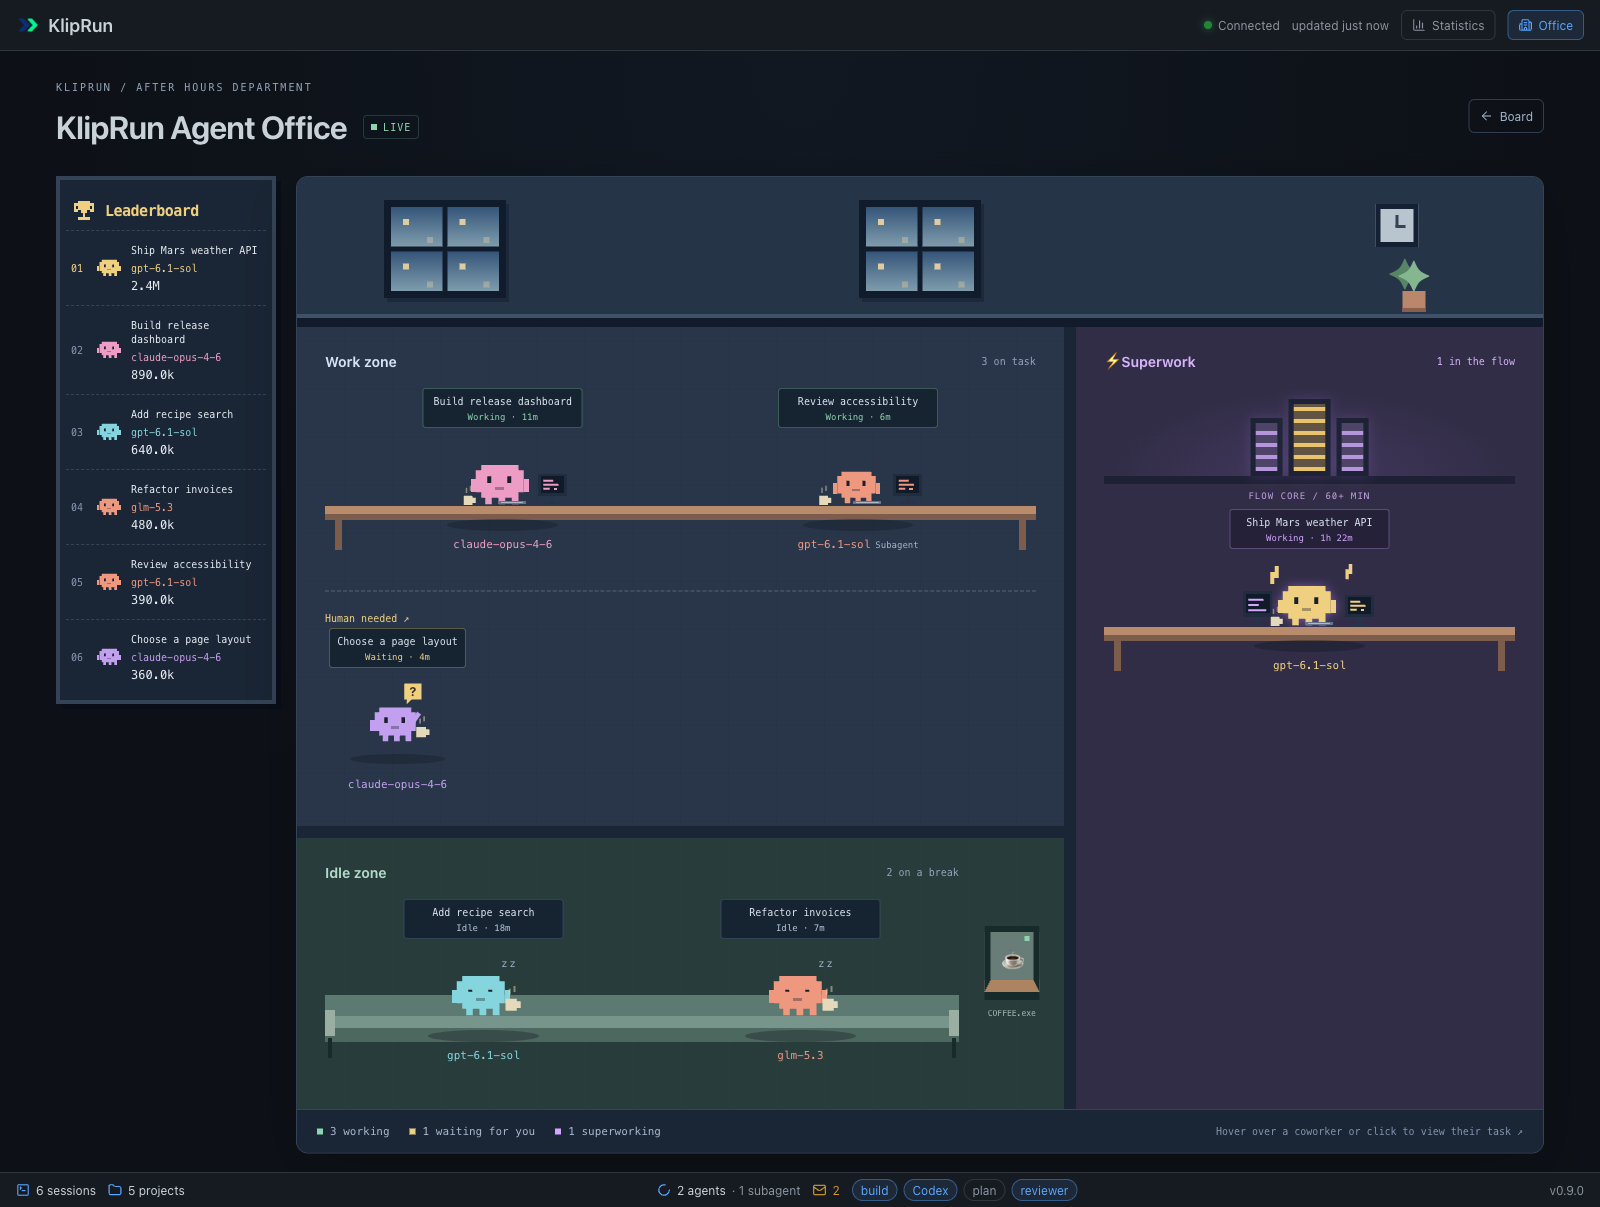
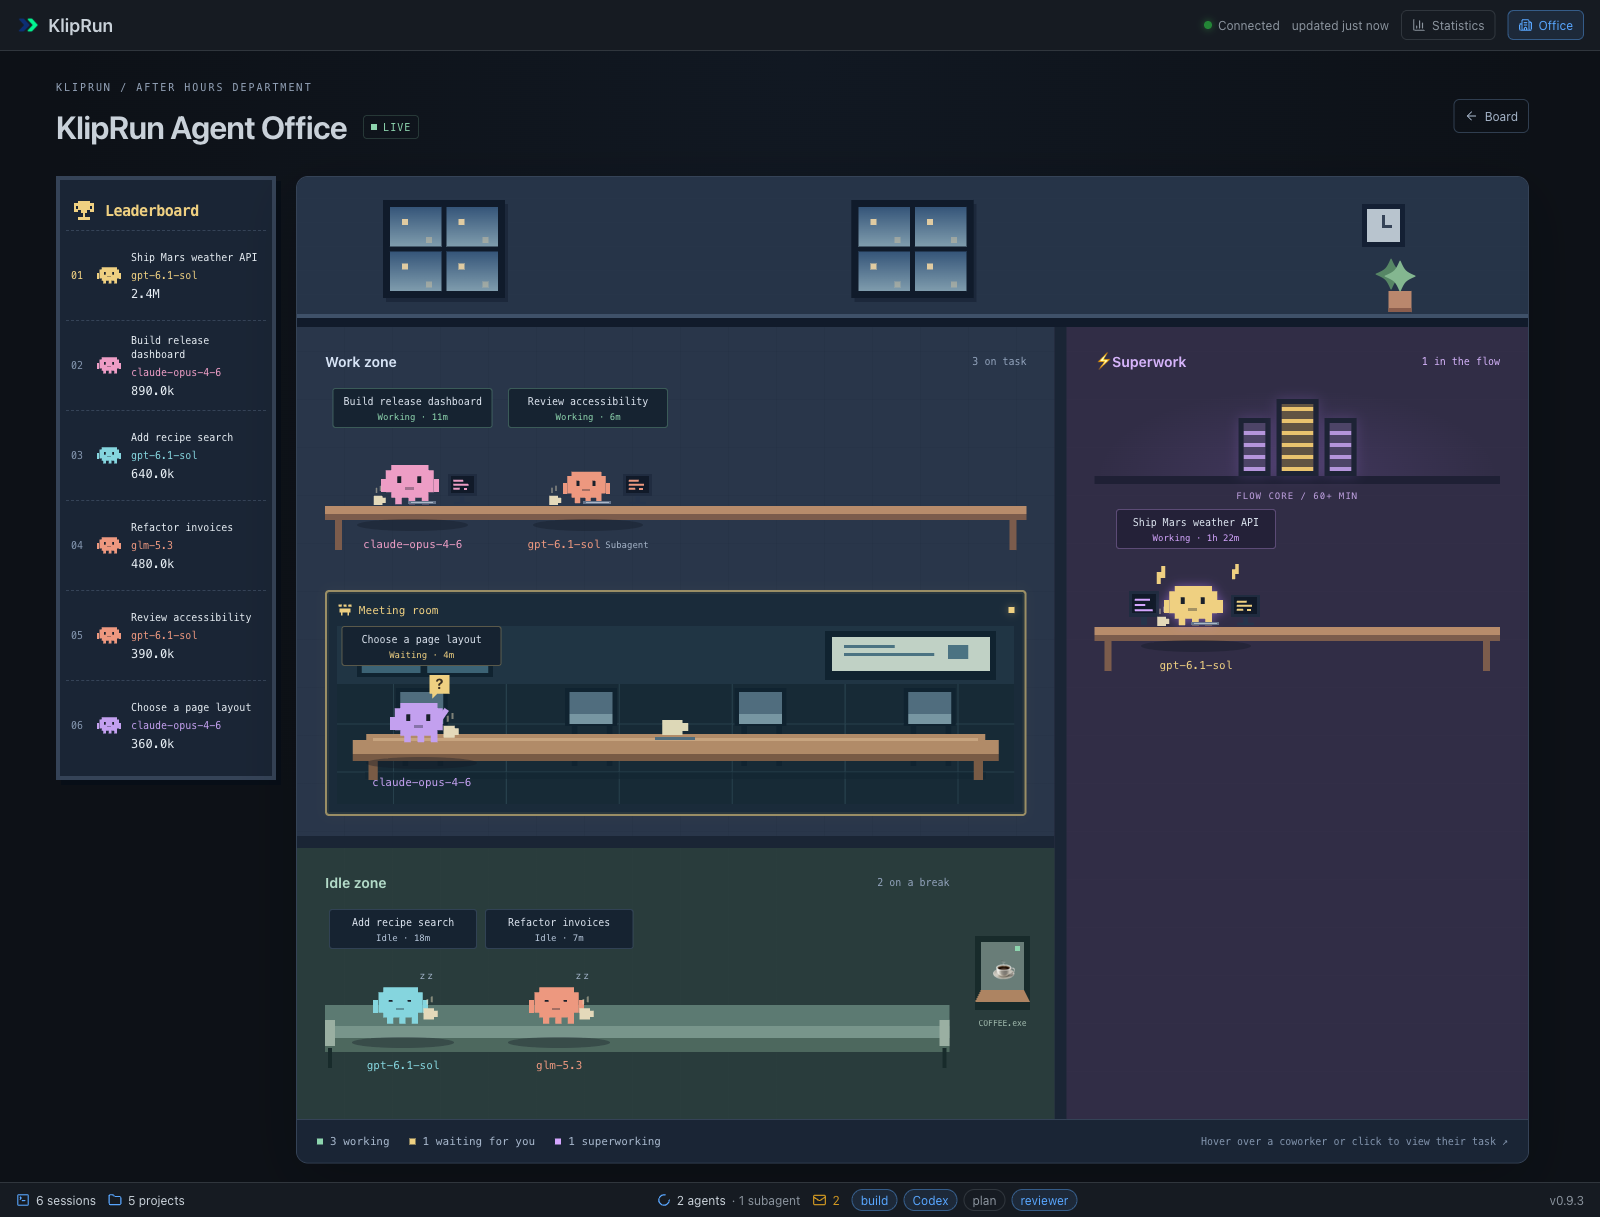
KlipRun: add office meeting room (v0.9.3)

diff --git a/src/client/src/office/office.css b/src/client/src/office/office.css
@@ -56,11 +56,15 @@
 .office-tooltip span { display: block; margin-top: 4px; }
 .office-resident:hover .office-tooltip, .office-resident:focus-visible .office-tooltip { display: block; }
 .office-vacant { position: absolute; bottom: 20px; left: 4px; right: 4px; text-align: center; color: #93a4b9; font: 10px ui-monospace, monospace; }
-.office-help-desk { margin-top: 12px; padding-top: 12px; border-top: 2px dashed #70809950; }
-.office-help-sign { color: #efd081; font: 10px ui-monospace, monospace; }
-.office-waiting-line { position: relative; display: grid; grid-template-columns: repeat(auto-fill, minmax(145px, 1fr)); grid-auto-rows: 178px; min-height: 178px; }
+.office-meeting-room { margin-top: 12px; padding: 10px; border: 2px solid #486271; border-radius: 4px; background: #1a2b3a; box-shadow: inset 0 0 0 2px #102232; }
+.office-meeting-header { display: flex; align-items: center; justify-content: space-between; gap: 8px; margin-bottom: 8px; }
+.office-meeting-header h4 { display: flex; align-items: center; gap: 6px; color: #aec7d4; font: 11px/16px ui-monospace, monospace; }
+.office-meeting-indicator { width: 6px; height: 6px; flex-shrink: 0; background: #607f89; }
+.office-meeting-active { border-color: #efd08199; box-shadow: inset 0 0 0 2px #efd08112, 0 0 12px #efd0810a; }
+.office-meeting-active .office-meeting-header h4 { color: #efd081; }
+.office-meeting-active .office-meeting-indicator { background: #efd081; box-shadow: 0 0 8px #efd08177; }
+.office-waiting-line { position: relative; display: grid; grid-template-columns: repeat(auto-fill, minmax(145px, 1fr)); grid-auto-rows: 178px; min-height: 178px; background: url("./meeting-room.svg") 0 0 / 100% 178px repeat-y; }
 .office-waiting-line .office-seat, .office-waiting-line .office-resident { height: 178px; }
-.office-no-questions { position: absolute; top: 10px; left: 0; color: #8294ad; font-size: 10px; }
 .office-reactor { position: relative; display: flex; align-items: end; justify-content: center; gap: 6px; height: 96px; margin: 14px auto 25px; border-bottom: 8px solid #1f2035; background: radial-gradient(ellipse at bottom, #b880ff20, transparent 70%); }
 .office-reactor > span { height: 58px; width: 32px; border: 5px solid #1d2335; background: repeating-linear-gradient(0deg, #b595dc 0 4px, #4d4467 4px 12px); box-shadow: 0 0 12px #b880ff30; }
 .office-reactor > span:nth-child(2) { height: 77px; width: 42px; background: repeating-linear-gradient(0deg, #e9c36e 0 4px, #615443 4px 12px); }

diff --git a/src/client/src/office/Office.tsx b/src/client/src/office/Office.tsx
@@ -138,9 +138,17 @@ export default function Office({ board, onSelect, onBack, now = Date.now() }: {
           <div className="office-zone-heading"><h3>Work zone</h3><span>{zones.work.length} on task</span></div>
           <div className="office-seats office-desks">{renderSeats("work")}
             {!residents.some(c => placements.get(c.session_id)!.area === "work") && <div className="office-vacant">Monitors are on. The team will be back soon.</div>}</div>
-          <div className="office-help-desk"><span className="office-help-sign">Human needed ↗</span>
-            <div className="office-waiting-line">{renderSeats("waiting")}
-              {!residents.some(c => placements.get(c.session_id)!.area === "waiting") && <span className="office-no-questions">No questions for now</span>}</div></div>
+          <section className={`office-meeting-room${waiting > 0 ? " office-meeting-active" : ""}`} aria-label="Meeting room" data-testid="meeting-room">
+            <div className="office-meeting-header">
+              <h4><svg viewBox="0 0 20 20" width="16" height="16" fill="currentColor" shapeRendering="crispEdges" aria-hidden="true">
+                <path d="M3 8h14v5H3zM5 13h2v4H5zM13 13h2v4h-2zM2 3h4v3H2zM8 3h4v3H8zM14 3h4v3h-4z" />
+              </svg>Meeting room</h4>
+              <span className="office-meeting-indicator" role="status"
+                aria-label={waiting > 0 ? "Meeting needs your input" : "Meeting room available"}
+                title={waiting > 0 ? "Meeting needs your input" : "Meeting room available"} />
+            </div>
+            <div className="office-waiting-line">{renderSeats("waiting")}</div>
+          </section>
         </section>
         <section className="office-zone office-zone-superwork" data-zone="superwork" aria-label="Superwork zone">
           <div className="office-zone-heading"><h3>⚡ Superwork</h3><span>{zones.superwork.length} in the flow</span></div>

diff --git a/src/client/src/office/__tests__/Office.test.tsx b/src/client/src/office/__tests__/Office.test.tsx
@@ -48,6 +48,22 @@ test("office distinguishes loading from an empty live board", () => {
   expect(renderToStaticMarkup(<Office board={board([])} onSelect={() => {}} />)).toContain("The office is quiet");
 });
 
+test("the empty waiting area is a persistent meeting room rather than an unoccupied help queue", () => {
+  const html = renderToStaticMarkup(<Office board={board([])} onSelect={() => {}} />);
+  expect(html).toContain('aria-label="Meeting room"');
+  expect(html).toContain('aria-label="Meeting room available"');
+  expect(html).not.toContain("Human needed");
+  expect(html).not.toContain("No questions for now");
+});
+
+test("a coworker with a question sits in the meeting room and requests input immediately", () => {
+  const html = renderToStaticMarkup(<Office board={board([card("question", { column: "attention", running_since: null })])} onSelect={() => {}} />);
+  const meeting = html.match(/<section[^>]*aria-label="Meeting room"[\s\S]*?<\/section>/)?.[0];
+  expect(meeting).toBeDefined();
+  expect(meeting).toContain('aria-label="Meeting needs your input"');
+  expect(meeting).toContain('data-session-id="question" data-office-state="waiting"');
+});
+
 test("a coworker keeps their color when their state and board position change", () => {
   const render = (cards: CardPayload[]) => renderToStaticMarkup(<Office board={board(cards)} onSelect={() => {}} />);
   const before = render([card("same"), card("other")]);

diff --git a/CHANGELOG.md b/CHANGELOG.md
@@ -4,6 +4,18 @@ All notable changes to this project are documented in this file.
 The format is based on [Keep a Changelog](https://keepachangelog.com/en/1.1.0/),
 and this project adheres to [Semantic Versioning](https://semver.org/spec/v2.0.0.html).
 
+## [0.9.3] - 2026-10-12
+
+### Changed
+- The Office waiting area is now a furnished pixel-art **Meeting room**, with
+  a shared conference table, chairs and a whiteboard. Coworkers waiting for
+  input gather there with their session titles, waiting timers and raised hands.
+- A confirmed question highlights the room and its indicator in amber. The
+  empty room retains its furniture instead of displaying the old help-queue
+  captions, and its height stays stable as coworkers enter and leave.
+- Refreshed README previews for Office, Kanban and Statistics using only
+  fictional sessions, projects, messages and usage data. Office remains first.
+
 ## [0.9.2] - 2026-10-12
 
 ### Changed

diff --git a/README.md b/README.md
@@ -15,7 +15,7 @@ databases are opened read-only.
 
 **Agent Office** — `/office`
 
-![KlipRun Agent Office: Work, Idle and Superwork zones with a token leaderboard](docs/office.png)
+![KlipRun Agent Office: work zones, a meeting room and token leaderboard](docs/office.png)
 
 **Kanban board** — `/`
 
@@ -45,6 +45,8 @@ databases are opened read-only.
   Seats stay fixed when neighbors move; an unknown status keeps the last known
   seat and displays a neutral label instead of implying that work finished.
   The desktop Leaderboard shows nine complete entries before scrolling.
+  Coworkers waiting for input gather in a furnished **Meeting room** with an
+  amber indicator. The empty room keeps its furniture and stable height.
 - Live updates over Server-Sent Events (~100 ms) with ETag polling fallback.
 
 ## Quick start
